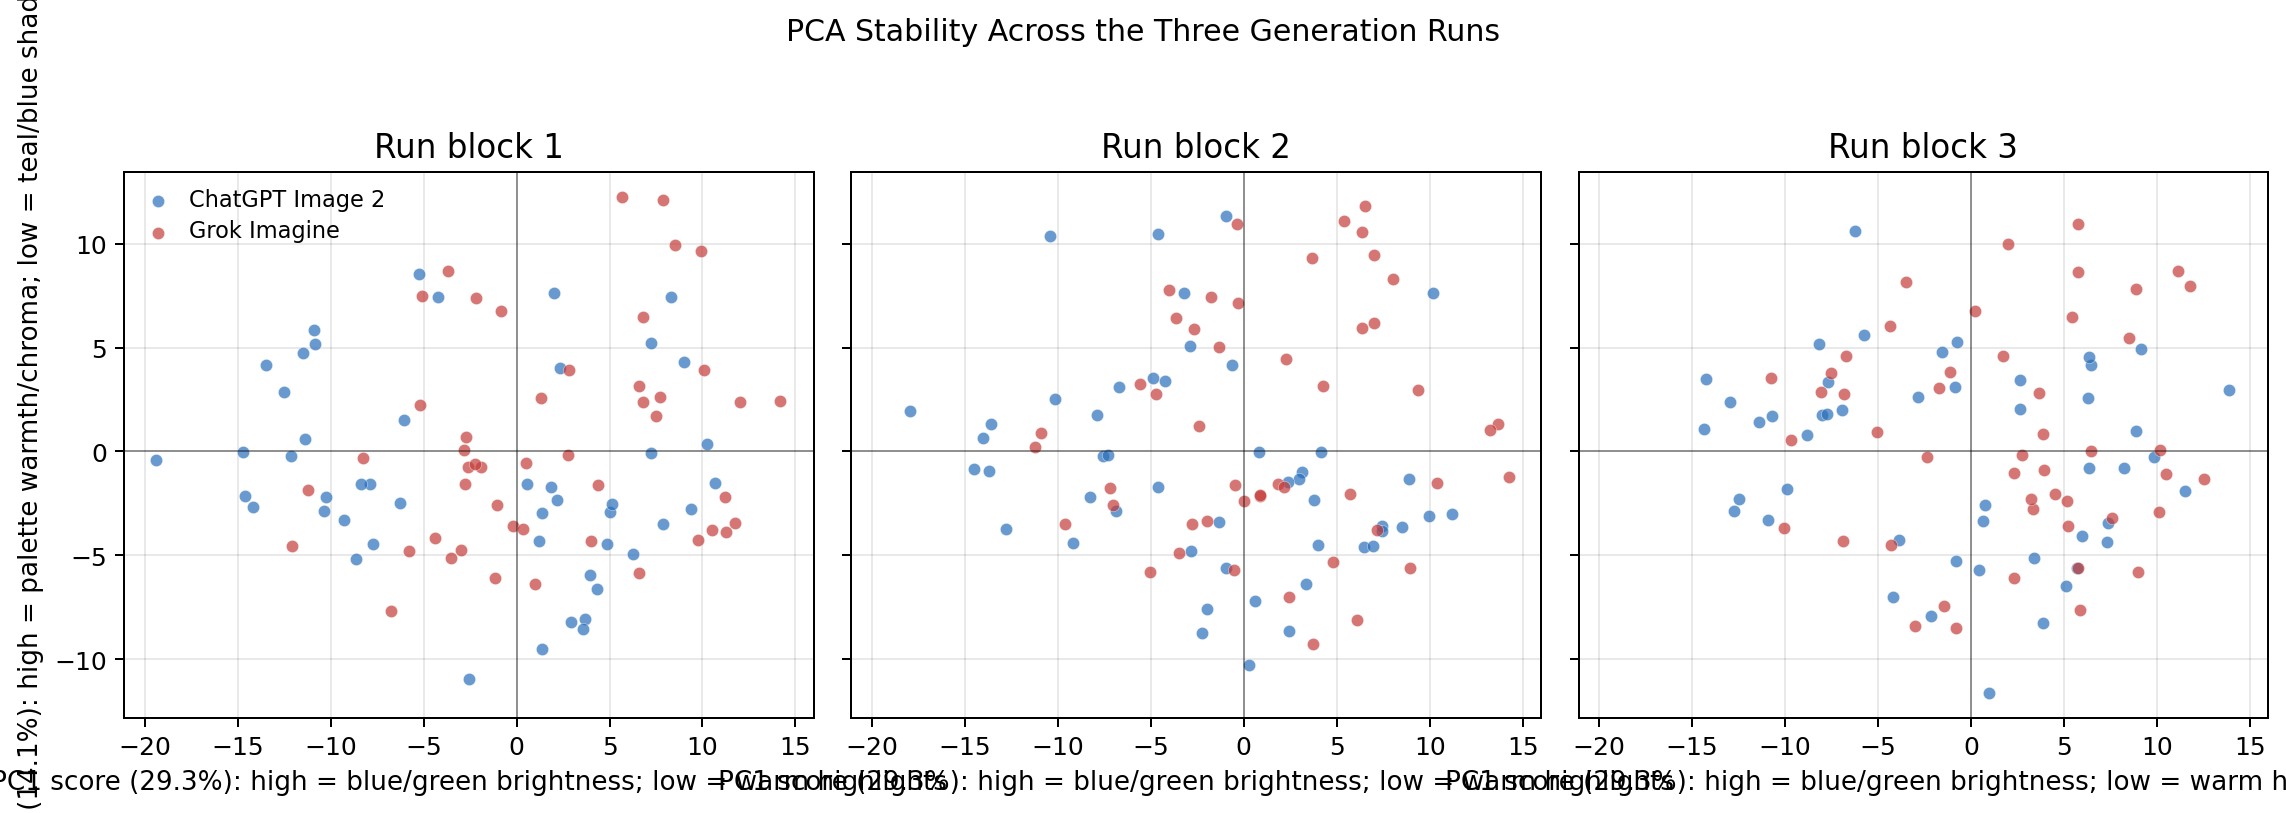
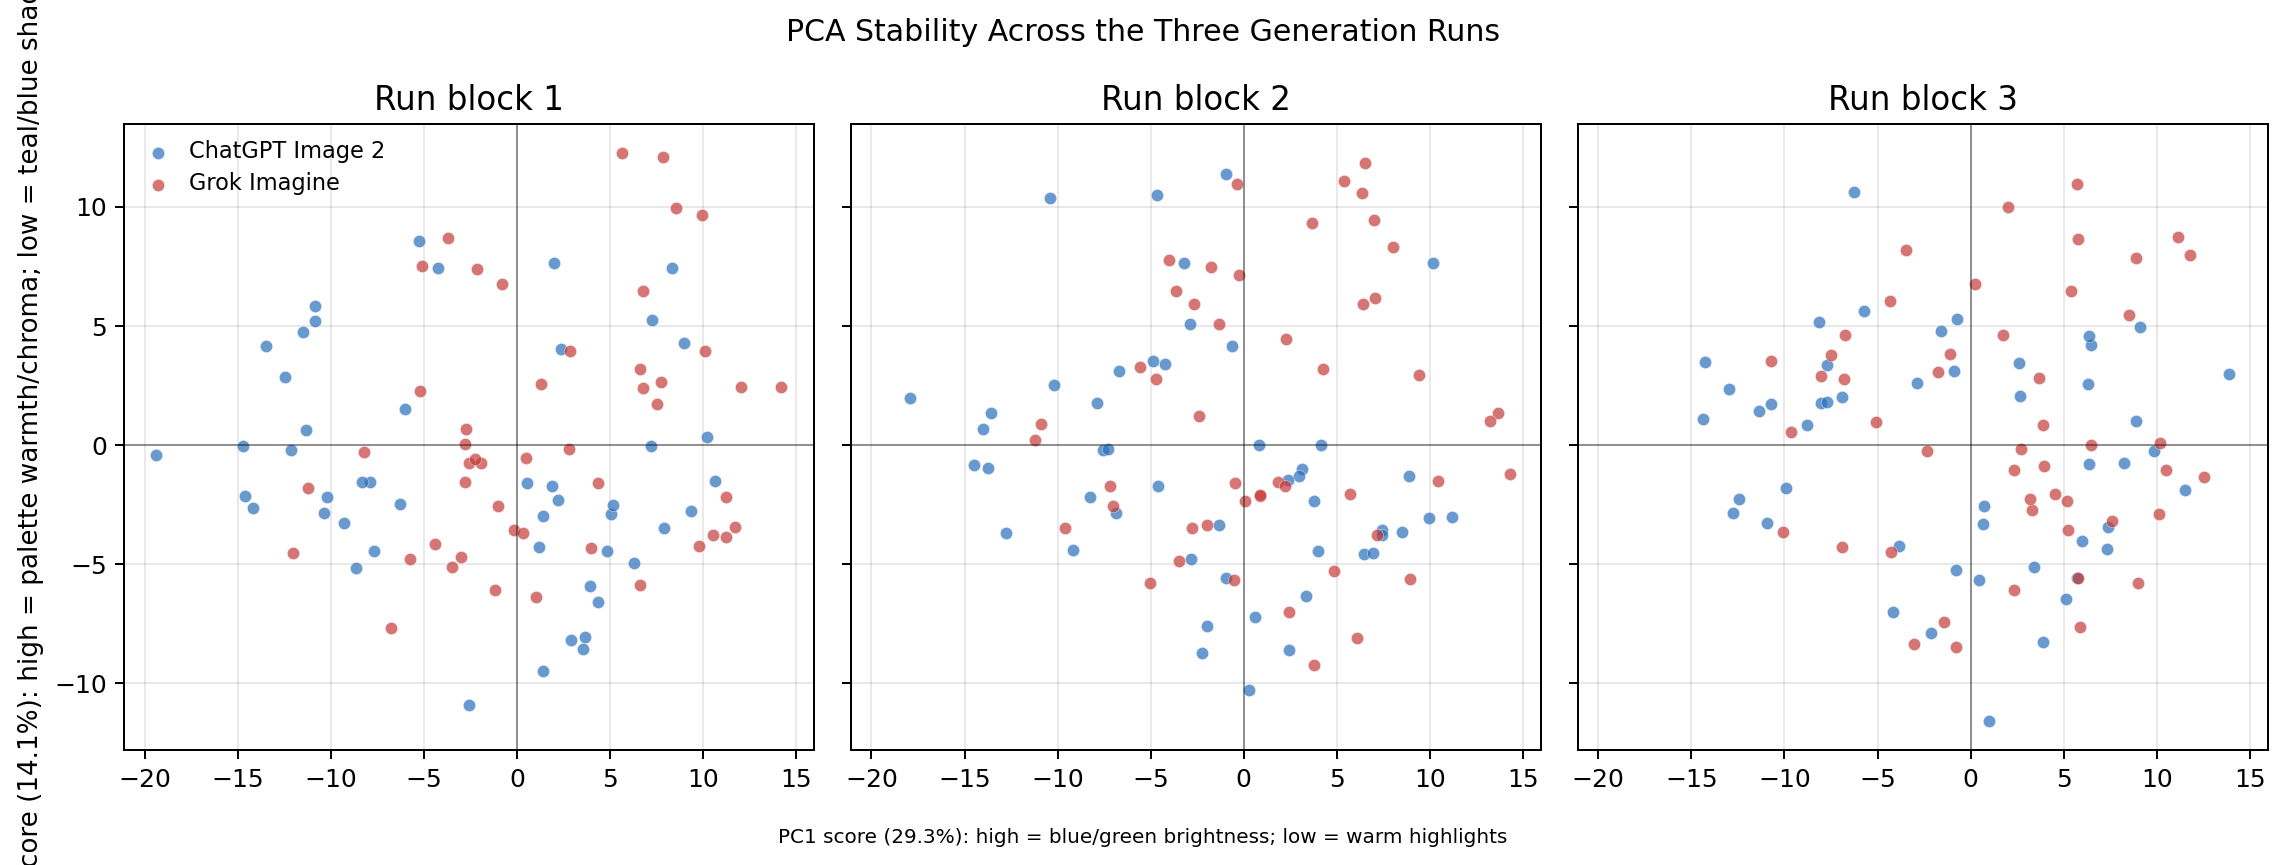
Clarify benchmark scope and limitations

diff --git a/code/generate_v2_figures.py b/code/generate_v2_figures.py
@@ -260,7 +260,7 @@ def pca_by_run(scores: list[dict[str, str]], explained: list[dict[str, str]]) ->
     pc1 = f(explained[0]["explained_variance_ratio"]) * 100
     pc2 = f(explained[1]["explained_variance_ratio"]) * 100
     runs = sorted({r["run_block"] for r in scores}, key=int)
-    fig, axes = plt.subplots(1, 3, figsize=(12.8, 4.3), dpi=180, sharex=True, sharey=True)
+    fig, axes = plt.subplots(1, 3, figsize=(12.8, 4.8), dpi=180, sharex=True, sharey=True)
     for ax, run in zip(axes, runs):
         for model in ["chatgpt_image_2", "xai_grok_imagine"]:
             pts = np.asarray([[f(r["PC1"]), f(r["PC2"])] for r in scores if r["run_block"] == run and r["model_key"] == model])
@@ -270,10 +270,10 @@ def pca_by_run(scores: list[dict[str, str]], explained: list[dict[str, str]]) ->
         ax.axvline(0, color=REFERENCE_LINE_COLOR, linewidth=0.8)
         ax.grid(color=GRID_COLOR)
     axes[0].set_ylabel(pc_axis_label("PC2", pc2), fontsize=8)
-    for ax in axes:
-        ax.set_xlabel(pc_axis_label("PC1", pc1), fontsize=8)
+    fig.supxlabel(pc_axis_label("PC1", pc1), fontsize=8, y=0.02)
     axes[0].legend(frameon=False, fontsize=7)
-    fig.suptitle("PCA Stability Across the Three Generation Runs", y=1.04)
+    fig.suptitle("PCA Stability Across the Three Generation Runs", y=0.98)
+    fig.subplots_adjust(bottom=0.18, top=0.82, wspace=0.08)
     save(fig, "v2_04_pca_by_run_block.png")
 
 

diff --git a/code/build_final_writeup_v2.py b/code/build_final_writeup_v2.py
@@ -669,6 +669,7 @@ def build_doc() -> None:
     add_para(doc, "For that reason, the study is intentionally about photographic prompt responsiveness rather than ordinary prompt adherence. In applied AI product discussions, models are often compared through informal judgments about taste, practical controllability, and whether the system can be steered toward a specific visual result. Those impressions matter, but they are rarely translated into a reproducible statistical design. This study turns one part of that intuition into a controlled experiment: explicit image features, matched prompt contrasts, multivariate tests, robust-estimation sensitivity analyses, and visual examples.")
     add_para(doc, "As of May 2026, text-to-image benchmarks cover several important evaluation lenses. DrawBench was introduced with Imagen to test text-to-image prompt following and human preference across challenging prompts (Saharia et al., 2022). PartiPrompts provides a large prompt set for evaluating content-rich generation (Yu et al., 2022). GenEval focuses on object-level alignment, including count, position, color, and object co-occurrence (Ghosh et al., 2023). T2I-CompBench++ targets compositional skills such as attribute binding, spatial relationships, and complex compositions (Huang et al., 2023). TIFA, VQAScore, and GenAI-Bench use visual question answering, image-to-text evaluation, or compositional text-to-visual testing to evaluate whether an image is faithful to the text (Hu et al., 2023; Li et al., 2024; Lin et al., 2024). HEIM takes a broader holistic-evaluation view across multiple aspects of text-to-image behavior (Lee et al., 2023). HPSv2 and related preference models ask which images humans tend to prefer (Wu et al., 2023). Recent color-focused work such as GenColorBench and ColorConceptBench evaluates more specialized color controllability and color-concept understanding (Butt et al., 2025; Ruan et al., 2026). DALL-E 3's paper emphasizes improved prompt following through better captions (Betker et al., 2023). These are important evaluation lenses, but none are primarily designed to ask whether a model responds to filmstock language, lighting design, scan treatment, or other professional aesthetic controls.")
     add_para(doc, "Against that benchmark landscape, the extension proposed here is deliberately narrower and more production-oriented: treat filmstock, lighting, and development-scan terms as experimental factors, then test whether those factors move generated images through measurable color, tone, texture, and covariance dimensions. This study therefore treats filmstock responsiveness as a small-scale benchmark prototype for a complementary axis: a filmmaker's benchmark. The point is not to replace object-adherence benchmarks. A useful creative model should still render anatomy, text, objects, spatial relationships, and prompt details correctly. The point is that, for creative professionals, correctness is not enough. A controllable image model should also move in the right visual dimension when given an artistic instruction.")
+    add_para(doc, "The central estimand is intentionally simple: the matched feature-space displacement caused by changing one photographic prompt factor while holding the rest of the design fixed. The additional multivariate, regression, robust-estimation, nonparametric, and predictive analyses are used to test whether that displacement is reliable, interpretable, and robust to alternative statistical views, not to turn the project into a leaderboard.")
     add_para(doc, "The artistic language was narrowed to filmstock, lighting, and development-scan conditions because these terms should leave measurable traces in color space, local color covariance, tonal distribution, contrast, grain-like texture, and halation proxies. Other artistic terminology, such as camera angle, lens rendering, staging density, blocking, production design, or editorial mood, is important but harder to operationalize with a small feature set. The 288 images in this study should therefore be read as a deliberately small experimental sample, not a finished industry-scale benchmark. A larger benchmark would expand to thousands of photographic and cinematic terms, many more scenes, reference photographs, and human expert ratings so that the evaluation becomes broad enough to inform practical creative-tool assessment.")
 
     doc.add_page_break()
@@ -709,6 +710,7 @@ def build_doc() -> None:
     add_heading(doc, "4. Statistical Methods", 1)
     add_para(doc, "The analysis treats the study as a blocked factorial experiment with high-dimensional image-derived outcomes. There are two related data objects. The first is the image-feature matrix X, with 288 rows and 195 standardized feature columns. The second is a matched-contrast distance table, where each row measures how far an image moves when one prompt factor changes while the other experimental factors are held fixed.")
     add_para(doc, "The results use three related measurements. A standardized feature value is a z-score for one image and one extracted feature. A feature effect is a high-minus-low prompt contrast for one feature, often reported after dividing by that feature's sample standard deviation. A responsiveness distance is different: it is the Euclidean length of many z-score differences across a selected feature set. In short, feature effects identify which visual measurements changed, while responsiveness distances summarize how far an image moved across many measurements at once.")
+    add_para(doc, "The analysis hierarchy is as follows. The primary response variable is the matched all-feature responsiveness distance. PCA, MANOVA, and PERMANOVA provide multivariate confirmation that the factorial prompt conditions move the broader feature space. Targeted Lab, split-tone, halation, texture, and palette features explain the photographic meaning of those movements. Regression, WLS, Huber IRLS, nonparametric tests, PLS, LASSO/ridge, variance shares, and outlier diagnostics are treated as robustness checks or exploratory diagnostic views rather than separate headline claims.")
 
     doc.add_page_break()
     add_heading(doc, "4.1 Standardization and Response Distances", 2)
@@ -883,10 +885,12 @@ def build_doc() -> None:
     add_para(doc, "Filmstock and scan should be interpreted with narrower effect sizes. They are detectable, but their effects are subtler and more feature-specific than lighting. This distinction is informative: the benchmark can separate prompt factors that visibly dominate the output from factors that require targeted metrics. It also warns against overinterpreting a non-significant overall distance. A filmstock factor might not greatly increase total Euclidean movement, yet still change the image in targeted feature families such as halation, palette separation, high-frequency texture, or shadow density.")
     add_para(doc, "The variance results also inform larger benchmark design. Pure run-block variation is small, which suggests that the three batches were not highly inconsistent. But within-run replicate variation is still substantial. In practical terms, two images from the same exact prompt can differ enough that a benchmark should not rely on one image per condition. The blocked replicate design gives a way to evaluate closed models responsibly: it cannot reveal the hidden sampler or true seed, but it can separate prompt-condition signal from repeated-generation variability.")
     add_para(doc, "There is also a methodological lesson about collinearity. Many photographic features are naturally correlated: warm highlights, Lab b, red-orange hue share, and split-tone distance are not independent artistic phenomena. PCA, PLS, ridge, and LASSO are helpful because they treat the feature space as structured rather than pretending every extracted variable is a separate clean measurement. In this study, that correlation structure is part of the image behavior being measured, not just a modeling nuisance.")
+    add_heading(doc, "6.1 Limitations and Threats to Validity", 2)
+    add_para(doc, "The study's scope is intentionally limited. First, both evaluated systems are closed cloud models, so seeds, samplers, internal model revisions, and some generation settings are not observable. Second, there are only three complete run blocks; therefore, block-level bootstrap intervals should be interpreted as sensitivity evidence from repeated batches rather than as large-sample asymptotic guarantees. Third, the feature set is handcrafted and should be understood as a proxy for photographic behavior, not a complete representation of human visual judgment or true chemical film response. Fourth, the named film stocks are prompt conditions, not ground-truth film simulations verified against reference photographs. Fifth, no expert human-rating panel was included, so the study measures statistical responsiveness rather than final aesthetic preference.")
     add_para(doc, "The industry relevance follows from that same point. Existing image benchmarks are highly useful when the question is whether a model follows object, counting, spatial, text, or compositional instructions. Creative work adds another layer: does the model understand the control language used by photographers, cinematographers, colorists, and art directors? In a production workflow, the value of an image model is partly its ability to respond predictably to terms like tungsten practical, pushed development, Frontier scan, halation, muted skin tone, or cool ambient window light. A benchmark in this style could inform model cards, creative-tool evaluation, product positioning, and procurement decisions for production workflows.")
 
     add_heading(doc, "7. Conclusion: Toward a Larger Filmmaker's Benchmark", 1)
-    add_para(doc, "This study shows that photographic prompt responsiveness can be studied statistically. The benchmark generated 288 images, extracted 195 image features, constructed blocked prompt-response distances, and analyzed the results with paired tests, hierarchical bootstrap inference, PCA, blocked MANOVA, blocked PERMANOVA, regression, WLS, Huber robust regression, Kruskal-Wallis and Friedman tests, PLS, LASSO/ridge classification, variance decomposition, and robust outlier diagnostics.")
+    add_para(doc, "This study shows that photographic prompt responsiveness can be studied statistically. The benchmark generated 288 images, extracted 195 image features, and constructed blocked prompt-response distances as the primary response variable. The main inference used paired model comparisons, hierarchical bootstrap sensitivity analysis, PCA, blocked MANOVA, and blocked PERMANOVA, while regression, WLS, Huber robust regression, Kruskal-Wallis and Friedman tests, PLS, LASSO/ridge classification, variance decomposition, and robust outlier diagnostics provided additional checks on the same design.")
     add_para(doc, "The main empirical claim is nuanced: lighting is the strongest artistic control in this design, the model-by-lighting interaction is robust, and filmstock/scan factors are measurable but subtler. The larger conceptual claim is that creative users need benchmarks that measure controllability, not only correctness. A model that can render a scene correctly may still fail as a creative instrument if it cannot respond to the aesthetics of filmstock, lighting, texture, color separation, and postproduction treatment.")
     add_para(doc, "Future work should expand the filmmaker's benchmark in several directions: more models, more scenes, more repeats per condition, human ratings from photographers and art directors, reference sets of photographs shot on the named film stocks, open-model comparisons with controlled seeds and sampling steps, and additional cinematic variables such as lens focal length, camera height, staging density, production design, wardrobe palette, time of day, and color grade. The broader goal is to evaluate generative models as tools for artistic control, not only as systems for plausible image completion.")
 